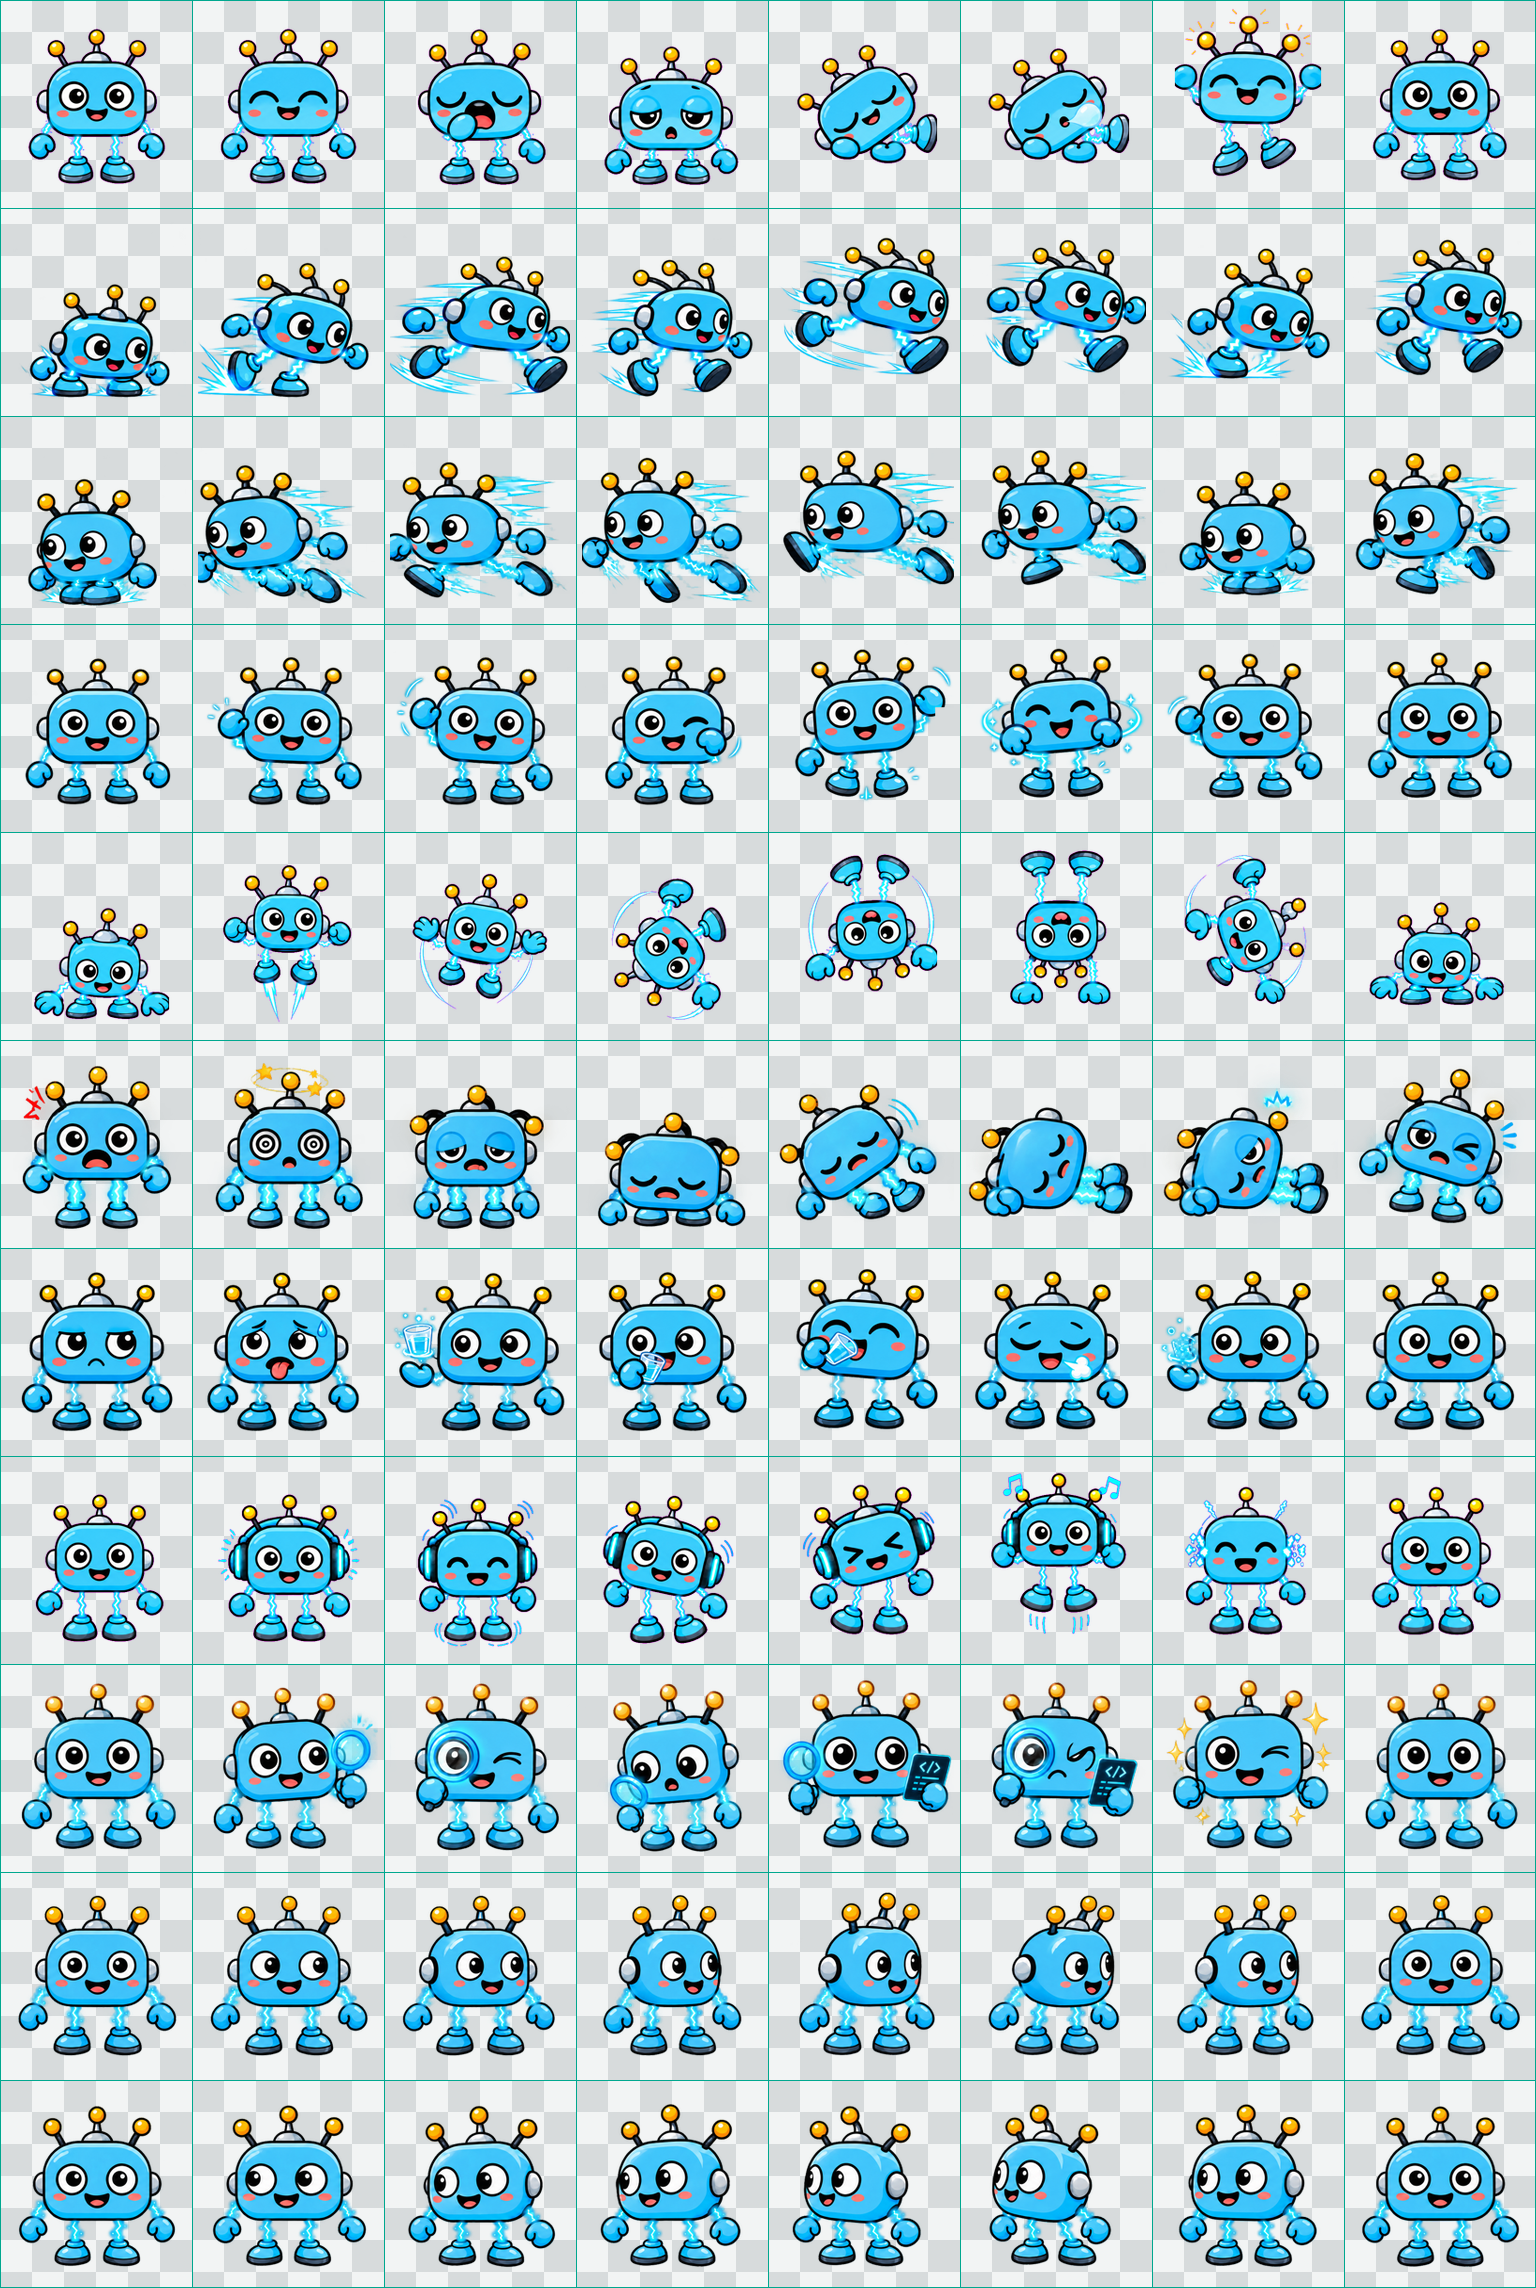
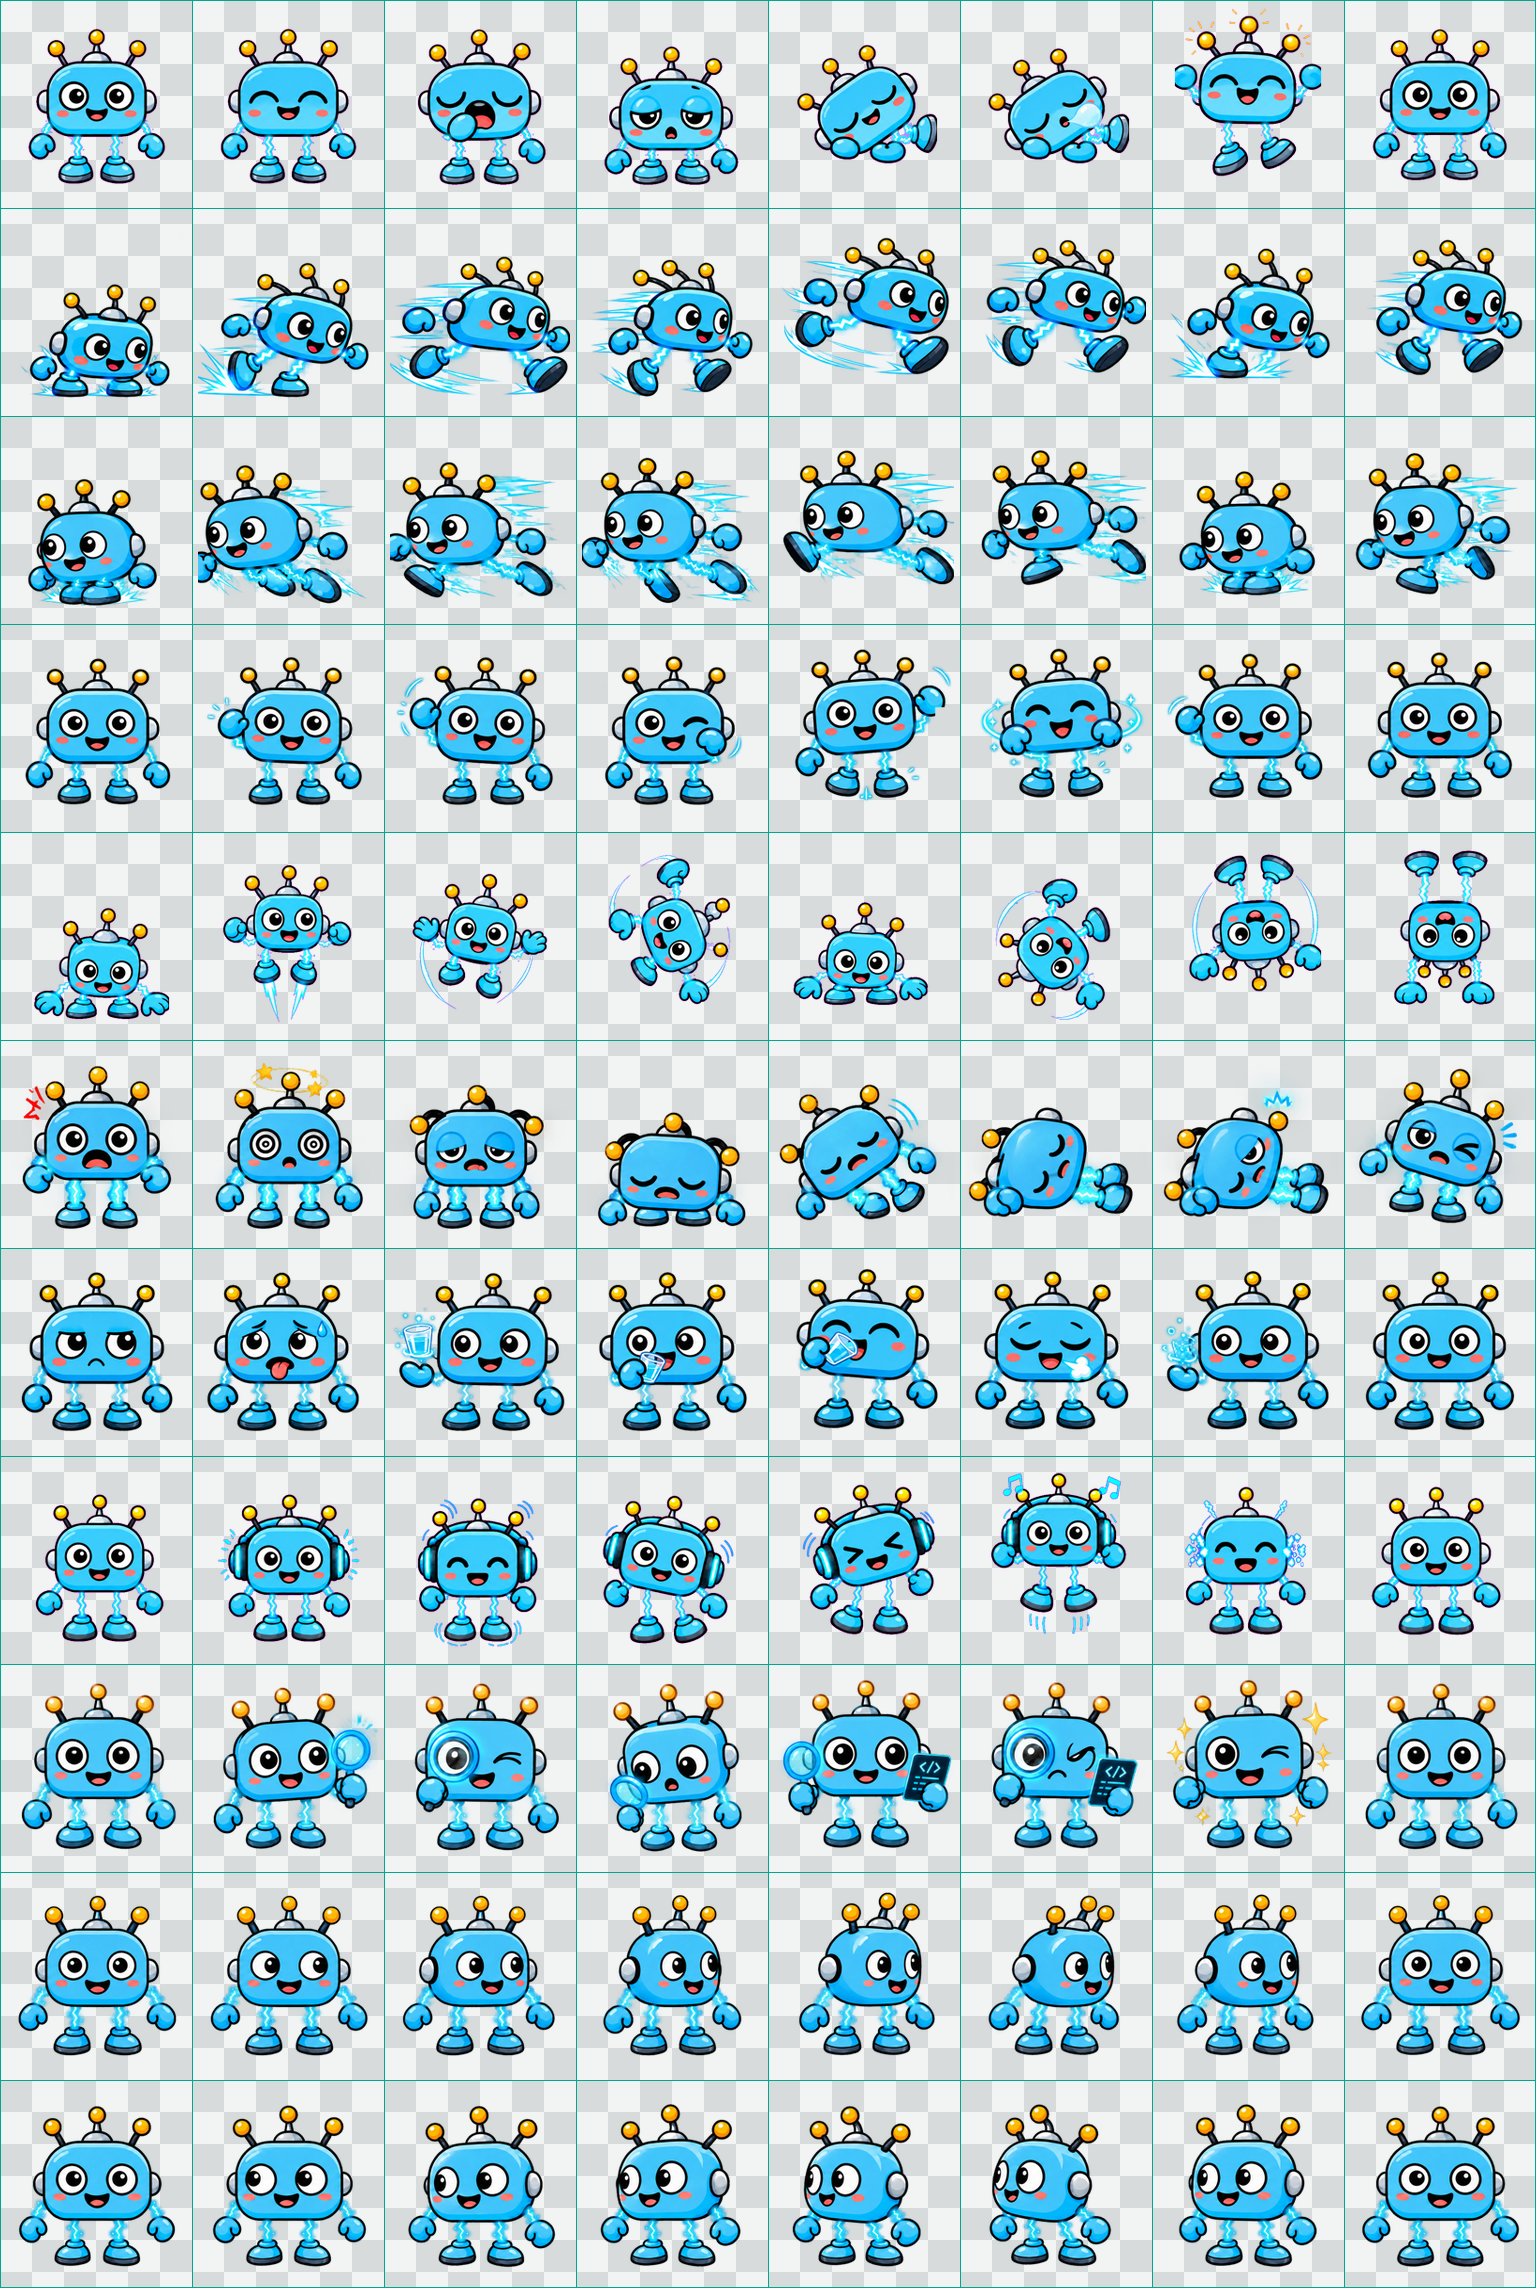
Sequence AI Pulse core and auxiliary frames

diff --git a/pets/ai-pulse/assets/frame-audit.md b/pets/ai-pulse/assets/frame-audit.md
@@ -3,7 +3,7 @@
 - Atlas: `1536×2288` WebP
 - Grid: `8×11` (`88` frames)
 - Cell: `192×208` RGBA after decoding
[2 lines of base64/hex data omitted]
 - Method: SHA-256 over every decoded RGBA cell; SHA-256 over each complete 11-frame column.
 
 ## Duplicate result
@@ -20,7 +20,7 @@ No complete duplicate columns were found.
 | 2 | `204ba227e679` | `025a58adce24` | `2681b244b762` | `209e953f593a` | `f016cd81c619` | `8095a1545e70` | `769aa4df3271` | `9a9d28d2860a` |
 | 3 | `7f7cc5cfaf81` | `516db1bd6be6` | `147baca2010d` | `332d2fed94cf` | `211f64f47649` | `10bf680ca6d4` | `048c975bd46a` | `f7c120d0b42c` |
 | 4 | `4a14b6445843` | `cbd3bd7b986e` | `d855ddd1d5f0` | `bff7586b3f64` | `dd2bcceaa27c` | `af5ad801215a` | `966a82d4e13f` | `7c364c9a2554` |
-| 5 | `8048b7314884` | `59a454a30f87` | `2a3c6f0385c5` | `ff3fc8294cef` | `f897c7ffae7a` | `0ca9c7880572` | `21b6dff713bf` | `7961dd5f8110` |
+| 5 | `8048b7314884` | `59a454a30f87` | `2a3c6f0385c5` | `21b6dff713bf` | `7961dd5f8110` | `ff3fc8294cef` | `f897c7ffae7a` | `0ca9c7880572` |
 | 6 | `c20636e778d7` | `46409bfe788e` | `1dc042ece144` | `e01f07cb9ad5` | `b8dda33cb1c8` | `d47d7a48bca9` | `1aebc8aa09ac` | `87b2ad985b0e` |
 | 7 | `49a635217a2f` | `d96e34967f72` | `5b7011d4a6be` | `7dd53233d79f` | `4a29c22c08ea` | `be26fa89c089` | `cc8a4612b895` | `12e65c89a2b4` |
 | 8 | `c3e4d9eddff4` | `45600134a302` | `2a3d1d03f379` | `958071f1b82b` | `277d4da11075` | `c5a0565dcc53` | `02a5f899b70a` | `847a8f39af38` |
@@ -33,8 +33,8 @@ No complete duplicate columns were found.
[13 lines of base64/hex data omitted]
